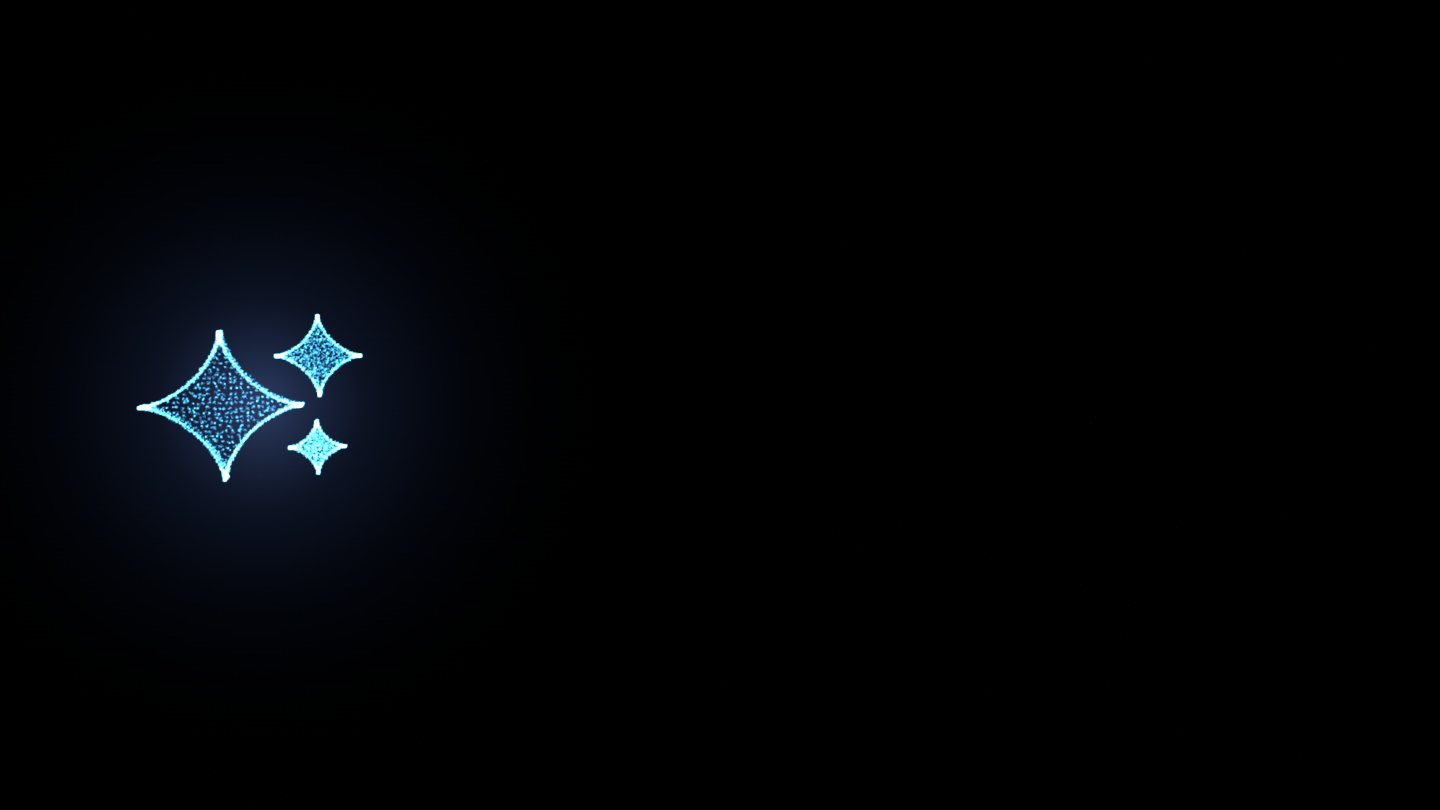
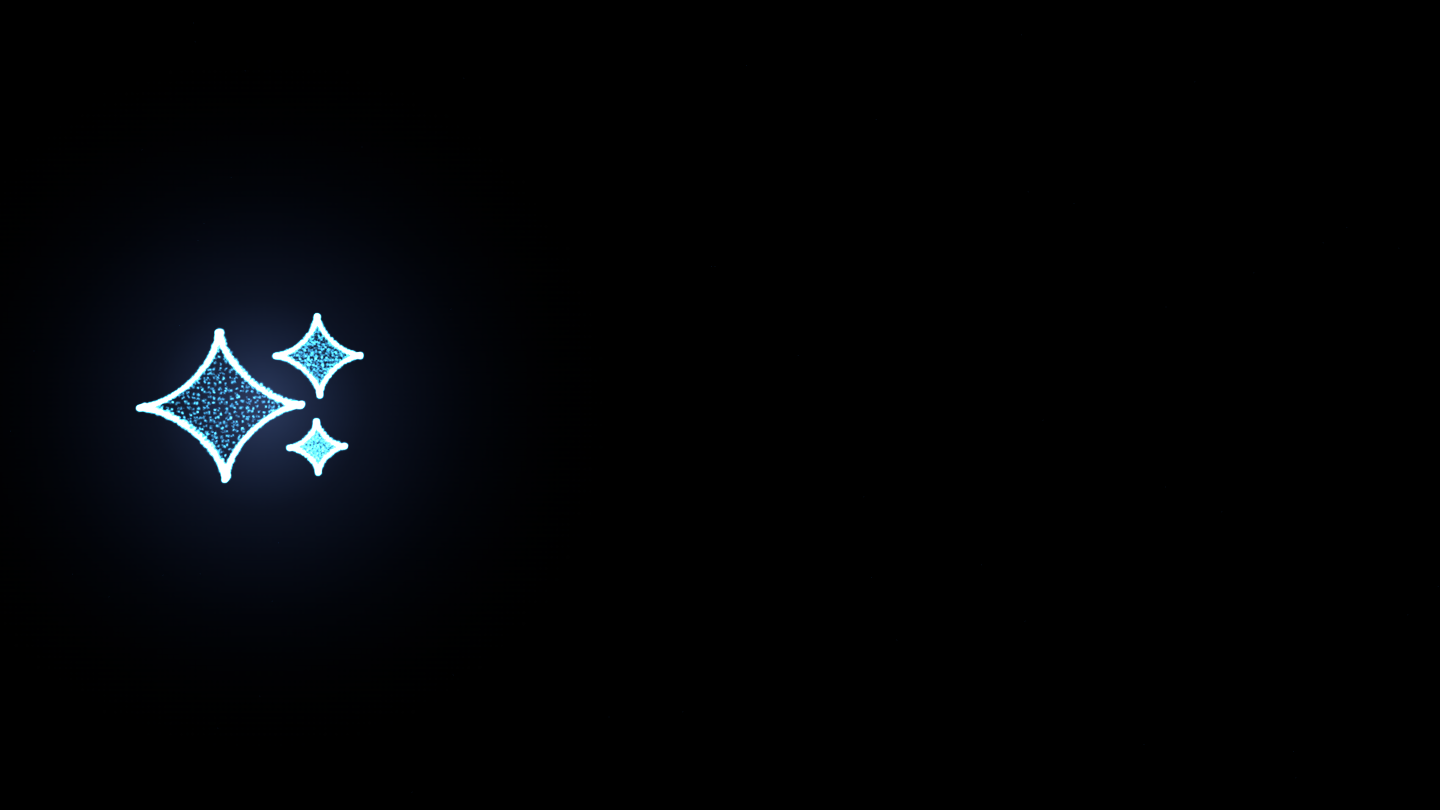
Enable tag-0 edge boost on AI Implementation card for sparkle edges
Adds card index 4 to the edge-boost list so the sparkle's bright outer
rim orbs enlarge, matching the approved appearance.

https://claude.ai/code/session_01L78wPX7NWwYVcQW3oYqJZt

Changed region(s): [[0.0938, 0.4012, 0.25, 0.5864]]

diff --git a/src/components/scene/HeroOrb.jsx b/src/components/scene/HeroOrb.jsx
@@ -996,8 +996,8 @@ function InteractiveMiniOrbs({ groupRef }) {
     const usedCardMorph = p >= 0.38 ? finalCardMorph : 0.0
 
     // Edge-orb size boost applies only to cards that tag edge vs surface (globe,
-    // gear, code block). For all other cards uSizeScale stays 1.0 → orbs revert.
-    const usesEdgeBoost = activeRef.current === 0 || activeRef.current === 1 || activeRef.current === 2 || activeRef.current === 3
+    // gear, code block, clock, sparkle). For all other cards uSizeScale stays 1.0 → orbs revert.
+    const usesEdgeBoost = activeRef.current === 0 || activeRef.current === 1 || activeRef.current === 2 || activeRef.current === 3 || activeRef.current === 4
 
     // Always fully opaque — the transform is purely positional, never fades
     material.uniforms.uMorph.value      = collapseT